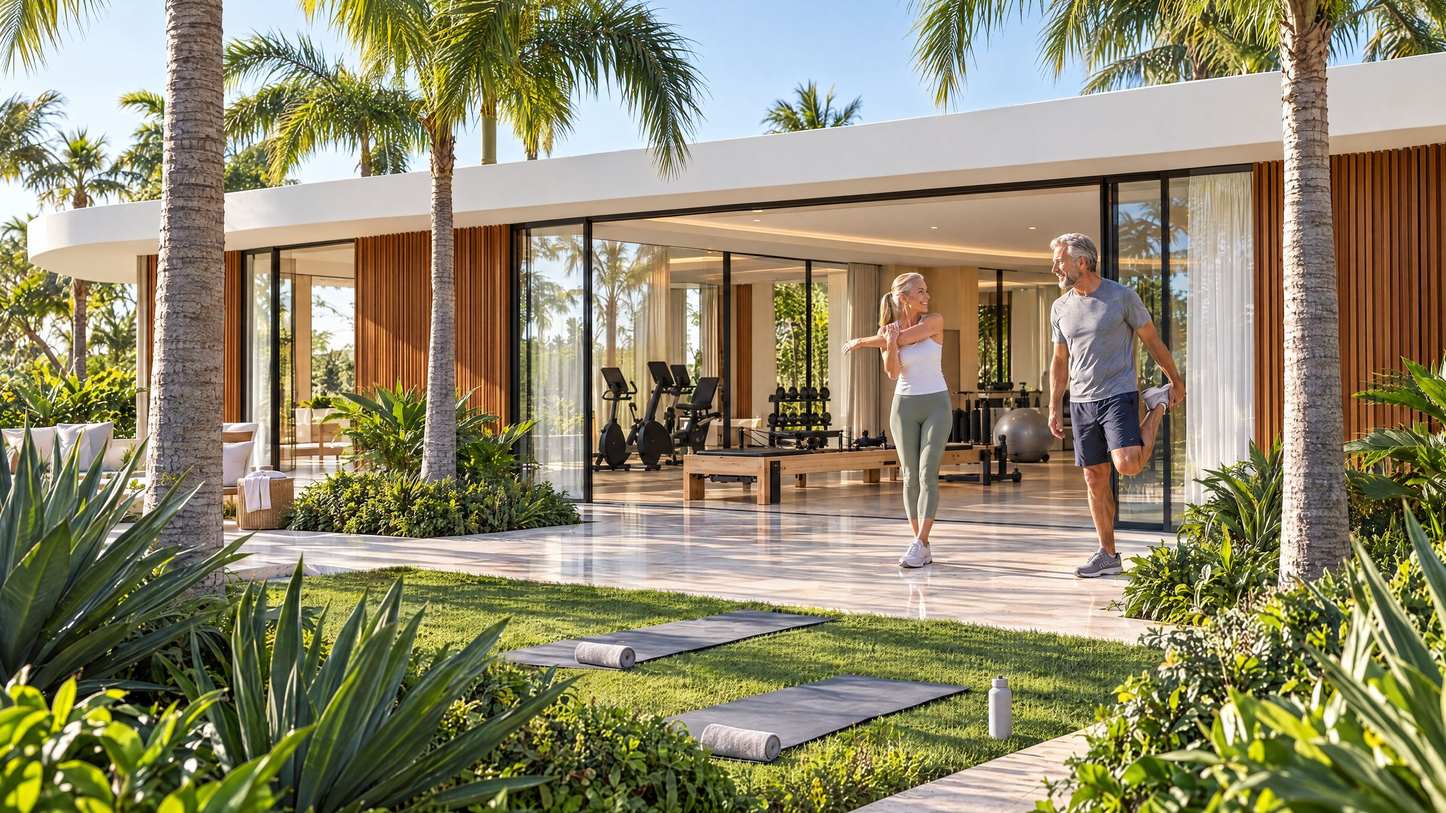
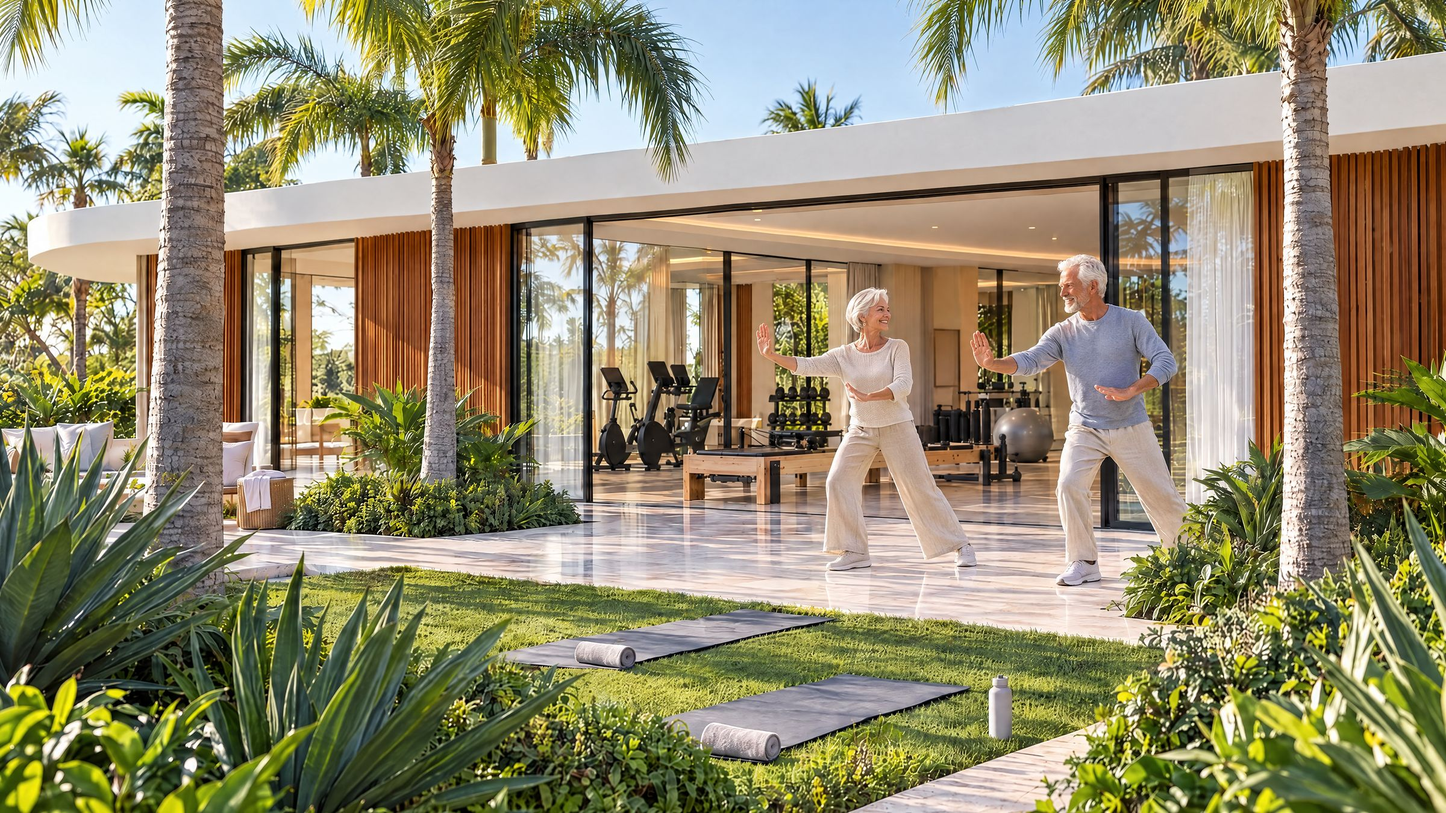
Show residents 65+ in the wellness studio and pavilion
Claude-Session: https://claude.ai/code/session_01S7b28xHt44m2WStmS8adg2

diff --git a/es/index.html b/es/index.html
@@ -169,11 +169,11 @@
         <figcaption data-i18n="well.cap1">El jardín compartido</figcaption>
       </figure>
       <figure class="wellness__item reveal">
-        <img src="/assets/img/gym.jpg?v=6" alt="Estudio de bienestar conceptual lleno de luz y abierto al jardín" loading="lazy">
+        <img src="/assets/img/gym.jpg?v=7" alt="Estudio de bienestar conceptual lleno de luz donde los residentes se ejercitan con una fisioterapeuta" loading="lazy">
         <figcaption data-i18n="well.cap2">El estudio de bienestar</figcaption>
       </figure>
       <figure class="wellness__item reveal">
-        <img src="/assets/img/pavilion.jpg?v=6" alt="Pabellón de bienestar conceptual con terraza exterior para ejercicio suave" loading="lazy">
+        <img src="/assets/img/pavilion.jpg?v=7" alt="Pabellón de bienestar conceptual donde dos residentes practican tai chi en la terraza" loading="lazy">
         <figcaption data-i18n="well.cap3">Movimiento al aire libre</figcaption>
       </figure>
     </div>

diff --git a/index.html b/index.html
@@ -169,11 +169,11 @@
         <figcaption data-i18n="well.cap1">The shared garden</figcaption>
       </figure>
       <figure class="wellness__item reveal">
-        <img src="/assets/img/gym.jpg?v=6" alt="Conceptual light-filled wellness studio opening onto the garden" loading="lazy">
+        <img src="/assets/img/gym.jpg?v=7" alt="Conceptual light-filled wellness studio where residents exercise with a physical therapist" loading="lazy">
         <figcaption data-i18n="well.cap2">The wellness studio</figcaption>
       </figure>
       <figure class="wellness__item reveal">
-        <img src="/assets/img/pavilion.jpg?v=6" alt="Conceptual wellness pavilion with an outdoor terrace for gentle exercise" loading="lazy">
+        <img src="/assets/img/pavilion.jpg?v=7" alt="Conceptual wellness pavilion where two residents practise tai chi on the terrace" loading="lazy">
         <figcaption data-i18n="well.cap3">Movement in the open air</figcaption>
       </figure>
     </div>

diff --git a/tools/build-es.py b/tools/build-es.py
@@ -75,10 +75,10 @@ alts = {
     'Conceptual courtyard garden': 'Jardín del patio conceptual',
     'Conceptual shared garden with a teak pergola where residents gather at a long table':
         'Jardín compartido conceptual con pérgola de teca donde los residentes se reúnen en una mesa larga',
-    'Conceptual light-filled wellness studio opening onto the garden':
-        'Estudio de bienestar conceptual lleno de luz y abierto al jardín',
-    'Conceptual wellness pavilion with an outdoor terrace for gentle exercise':
-        'Pabellón de bienestar conceptual con terraza exterior para ejercicio suave',
+    'Conceptual light-filled wellness studio where residents exercise with a physical therapist':
+        'Estudio de bienestar conceptual lleno de luz donde los residentes se ejercitan con una fisioterapeuta',
+    'Conceptual wellness pavilion where two residents practise tai chi on the terrace':
+        'Pabellón de bienestar conceptual donde dos residentes practican tai chi en la terraza',
     'Conceptual aerial view of the garden and wellness pavilion beside the residences':
         'Vista aérea conceptual del jardín y el pabellón de bienestar junto a las residencias',
     'Conceptual pool terrace framed by the residences, away from the beach':
